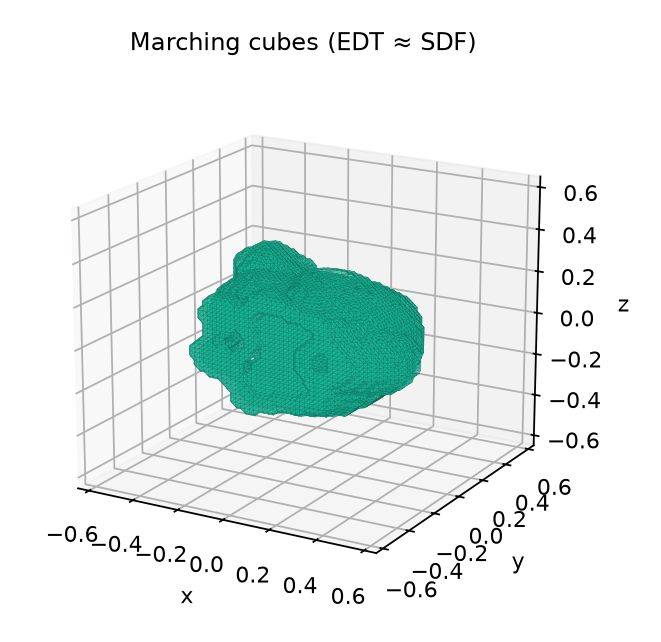
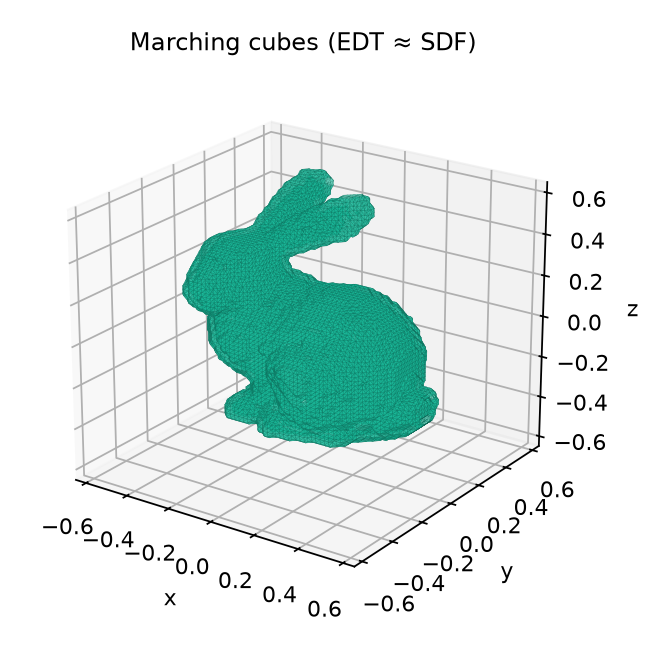
Orient Stanford Bunny Z-up for upright figures
The vendored OBJ is Y-up; rotate +90° about X in load_bunny so ears
point along +Z, matching matplotlib’s vertical axis in the chapter plots.

Changed region(s): [[0.0605, 0.1869, 0.9077, 0.9657], [0.1815, 0.0312, 0.7262, 0.0935], [0.938, 0.4673, 0.9682, 0.4984]]

diff --git a/scripts/geometric_computing_demo.py b/scripts/geometric_computing_demo.py
@@ -24,11 +24,20 @@ BUNNY_PATH = ROOT / "assets" / "stanford_bunny" / "bunny.obj"
 
 
 def load_bunny(*, target_extent: float = 1.0) -> trimesh.Trimesh:
-    """Load the vendored Stanford Bunny, center it, and scale to unit-ish size."""
+    """Load the vendored Stanford Bunny, center it, and scale to unit-ish size.
+
+    The source OBJ is Y-up; we rotate so **+Z is up** (ears toward +Z) for
+    matplotlib / robotics-style plots where the vertical axis is Z.
+    """
     mesh = trimesh.load(BUNNY_PATH, force="mesh")
     if not isinstance(mesh, trimesh.Trimesh):
         raise TypeError(f"expected a single mesh at {BUNNY_PATH}")
     mesh = mesh.copy()
+    mesh.apply_translation(-mesh.centroid)
+    # Y-up → Z-up: (x, y, z) → (x, -z, y)
+    mesh.apply_transform(
+        trimesh.transformations.rotation_matrix(np.radians(90.0), [1.0, 0.0, 0.0])
+    )
     mesh.apply_translation(-mesh.centroid)
     extent = float(np.max(mesh.extents))
     if extent <= 0:

diff --git a/scripts/render_geometric_computing_figures.py b/scripts/render_geometric_computing_figures.py
@@ -42,7 +42,8 @@ from geometric_computing_demo import (  # noqa: E402
 )
 
 OUT = ROOT / "docs" / "imgs" / "geometric-computing"
-ELEV, AZIM = 18, -60
+# Slightly elevated three-quarter view; bunny sits upright (+Z up).
+ELEV, AZIM = 22, -55
 
 
 def _style_ax(ax, title: str, *, lim: float = 0.65) -> None:
